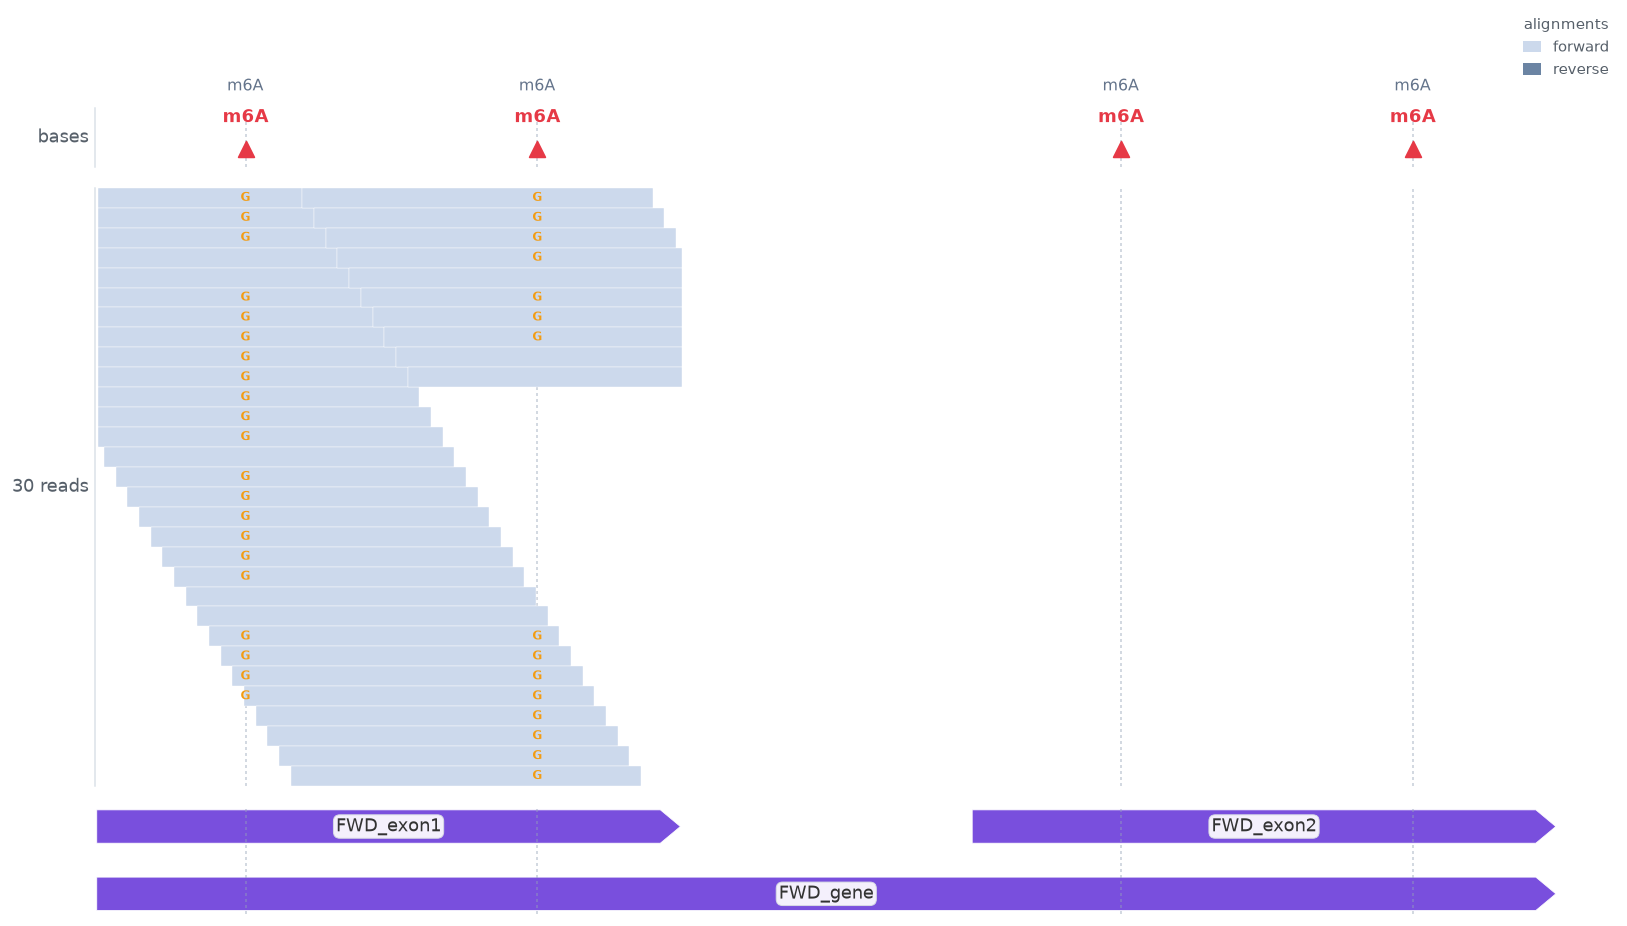
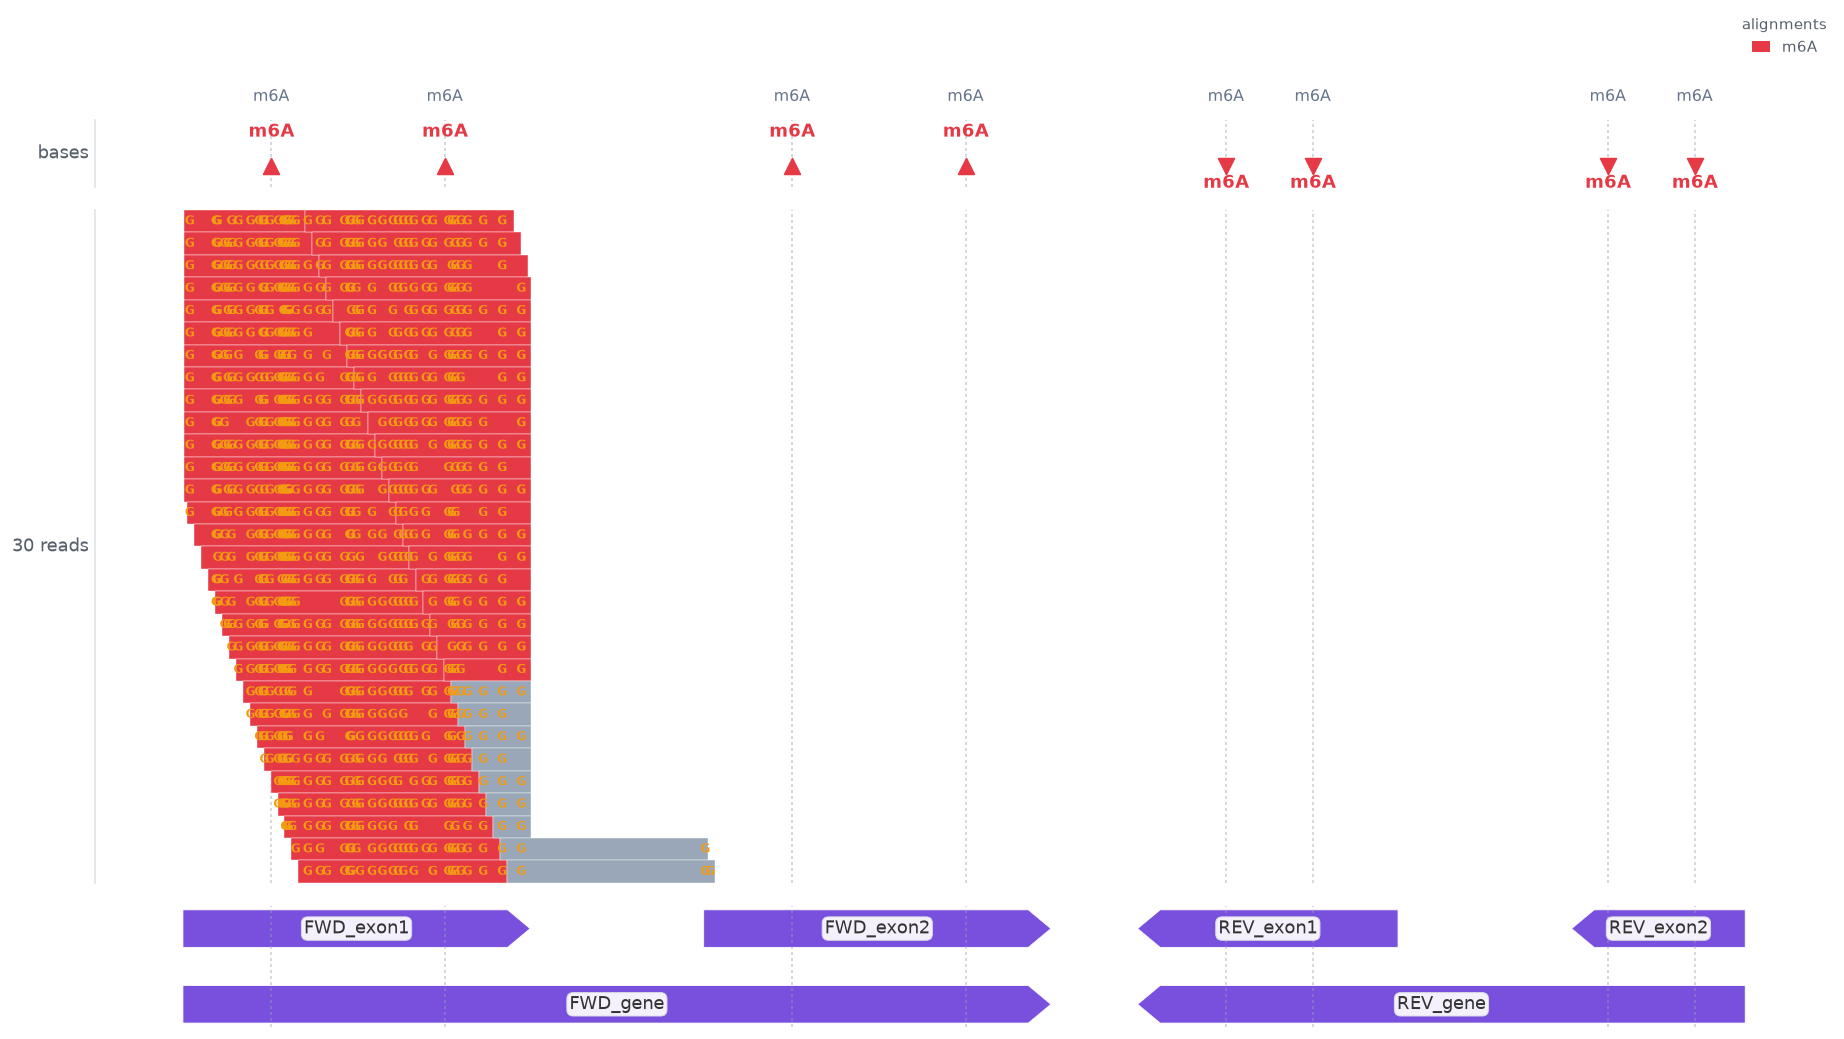
Fix GLORI logic: correct negative method and show both genes
Critical corrections:
1. Fixed GLORI conversion logic (negative method):
   - Forward gene: Unmodified A → G (converted), m6A-protected A → A (stays)
   - Reverse gene: Unmodified T → C (converted), m6A-protected T → T (stays)

2. Expanded region to show both genes:
   - Forward gene (chrM6A:200-720): 4 m6A sites
   - Reverse gene (chrM6A:750-1100): 4 m6A sites

3. Updated visualization:
   - Show both forward and reverse strand genes
   - Use color_by='basemod' to highlight m6A sites with colors
   - Larger region (chrM6A:150-1150) to display complete context

GLORI is a negative method where A→G indicates unmodified bases and A
indicates m6A-protected bases. This is now correctly implemented.

diff --git a/scripts/make_m6a_glori_bam.py b/scripts/make_m6a_glori_bam.py
@@ -109,31 +109,51 @@ def make_spliced_read(ref, start, end, exons):
     return query, cigar, ref_start
 
 
-def apply_glori_conversion_forward(query, ref_positions, m6a_set, mutation_rate=0.85):
-    """Apply GLORI conversion for forward strand: A→G at m6A positions."""
+def apply_glori_conversion_forward(query, ref_positions, m6a_set, conversion_rate=0.85):
+    """Apply GLORI conversion for forward strand.
+    
+    GLORI is a negative method:
+    - Unmodified A → G (reagent converted it)
+    - m6A-protected A → stays A (methylation blocked conversion)
+    """
     result = []
     for i, base in enumerate(query):
         if base == "A" and i < len(ref_positions):
             ref_pos = ref_positions[i]
-            if ref_pos in m6a_set and rng.random() < mutation_rate:
-                result.append("G")  # GLORI mutation at m6A
+            if ref_pos in m6a_set:
+                # m6A site - protected, stays as A
+                result.append("A")
             else:
-                result.append("A")  # unchanged
+                # Unmodified A - convert to G with conversion_rate probability
+                if rng.random() < conversion_rate:
+                    result.append("G")
+                else:
+                    result.append("A")
         else:
             result.append(base)
     return "".join(result)
 
 
-def apply_glori_conversion_reverse(query, ref_positions, m6a_set, mutation_rate=0.85):
-    """Apply GLORI conversion for reverse strand: T→C at m6A positions."""
+def apply_glori_conversion_reverse(query, ref_positions, m6a_set, conversion_rate=0.85):
+    """Apply GLORI conversion for reverse strand.
+    
+    GLORI is a negative method:
+    - Unmodified T → C (reagent converted the complement A)
+    - m6A-protected T → stays T (methylation on forward strand blocked conversion)
+    """
     result = []
     for i, base in enumerate(query):
         if base == "T" and i < len(ref_positions):
             ref_pos = ref_positions[i]
-            if ref_pos in m6a_set and rng.random() < mutation_rate:
-                result.append("C")  # GLORI mutation at m6A (T→C on reverse)
+            if ref_pos in m6a_set:
+                # m6A site - protected, stays as T
+                result.append("T")
             else:
-                result.append("T")  # unchanged
+                # Unmodified T (complement of A) - convert to C
+                if rng.random() < conversion_rate:
+                    result.append("C")
+                else:
+                    result.append("T")
         else:
             result.append(base)
     return "".join(result)

diff --git a/examples/generate_gallery.py b/examples/generate_gallery.py
@@ -134,17 +134,24 @@ def basemod():
     M6A_REF = os.path.join(REPO, "data", "m6a", "m6a_genome.fa")
     M6A_GB = os.path.join(REPO, "data", "m6a", "m6a_annotation.gb")
     
-    # Show region with both forward (A→G) and reverse (T→C) gene m6A sites
+    # Show region with both forward (200-720) and reverse (750-1100) genes
+    # GLORI: A→G = unmodified, A = m6A protected (negative method)
     view = (
-        GenomeView(region="chrM6A:200-720", reference=M6A_REF, figsize=(14, 8))
+        GenomeView(region="chrM6A:150-1150", reference=M6A_REF, figsize=(16, 9))
         .add_base_mods({
-            250: (1, "m6A"), 350: (1, "m6A"), 550: (1, "m6A"), 650: (1, "m6A"),  # forward gene
+            # Forward gene m6A sites (A stays as A = m6A protected)
+            250: (1, "m6A"), 350: (1, "m6A"), 550: (1, "m6A"), 650: (1, "m6A"),
+            # Reverse gene m6A sites (T stays as T = m6A protected on complement)
+            800: (-1, "m6A"), 850: (-1, "m6A"), 1020: (-1, "m6A"), 1070: (-1, "m6A"),
         })
-        .add_reads(M6A_BAM, reference=M6A_REF, color_by="strand", group_by="strand",
-                   max_reads=40, show_all_bases=False, base_fontsize=7.0, weight=5.0,
+        .add_reads(M6A_BAM, reference=M6A_REF, color_by="basemod", group_by="strand",
+                   max_reads=60, show_all_bases=False, base_fontsize=7.0, weight=5.0,
                    link_mates=True, view_as_pairs=True)
         .add_features(M6A_GB, min_feature_length=3)
-        .add_sites({250: "m6A", 350: "m6A", 550: "m6A", 650: "m6A"})
+        .add_sites({
+            250: "m6A", 350: "m6A", 550: "m6A", 650: "m6A",  # forward gene
+            800: "m6A", 850: "m6A", 1020: "m6A", 1070: "m6A",  # reverse gene
+        })
     )
     save(view, "gallery_basemod.png", dpi=120)
 
